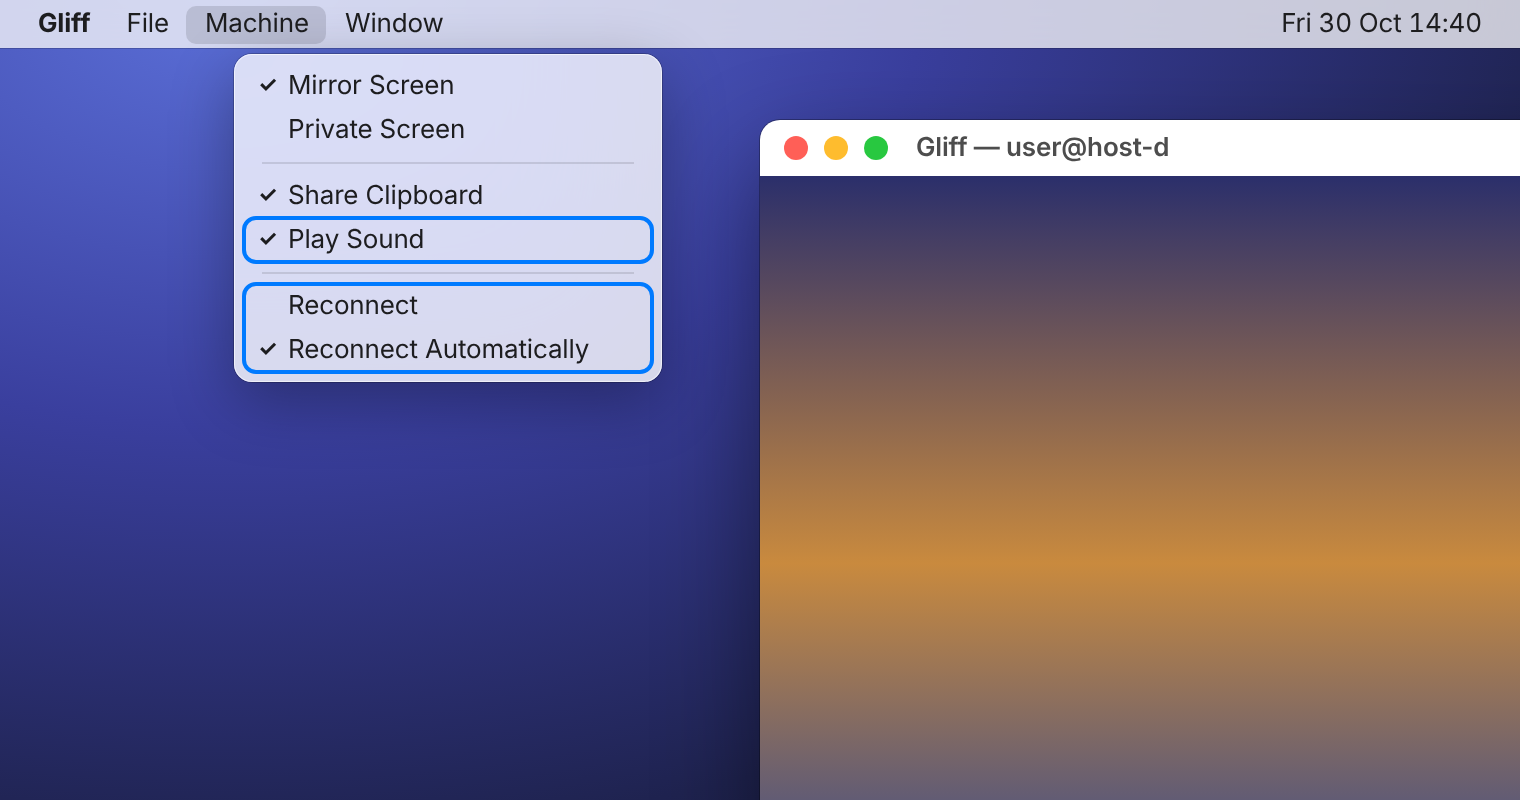
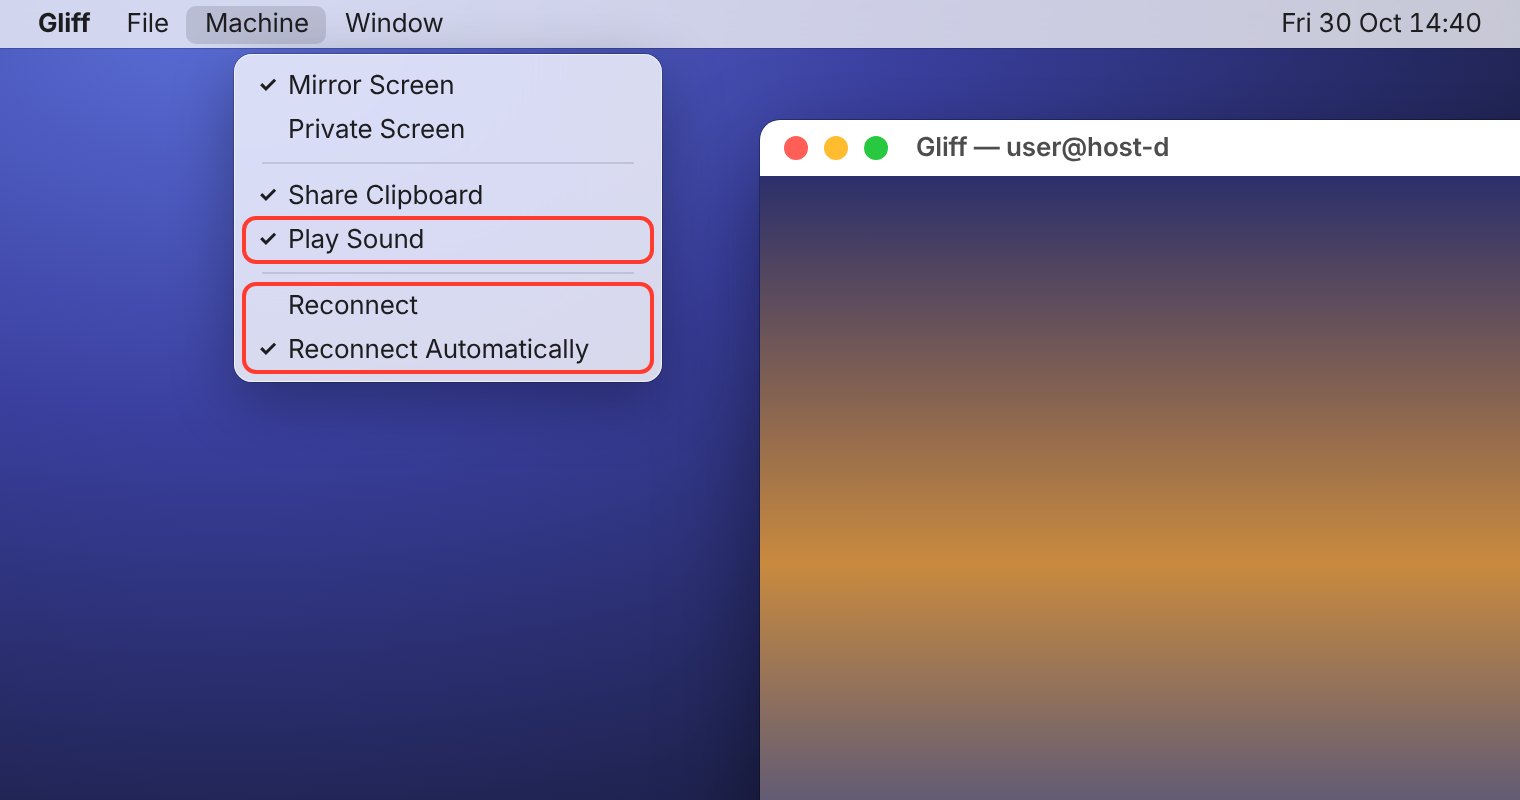
docs: red feature outlines; one outline per tab in the tabs shot
systemRed (#FF3B30) instead of systemBlue. The tabs screenshot gets two
boxes, one per connection, instead of one around the whole tab bar.

Claude-Session: https://claude.ai/code/session_01G4VLoM6hjvYsFPeoe3rMWg

Changed region(s): [[0.1546, 0.3125, 0.4329, 0.375], [0.1546, 0.4375, 0.4329, 0.4688], [0.1546, 0.25, 0.4329, 0.2812]]

diff --git a/docs/images/src/machine-menu.html b/docs/images/src/machine-menu.html
@@ -1,10 +1,10 @@
 <!doctype html>
-<!-- machine-menu.html v1.0.0 — a close macOS approximation of Gliff's
+<!-- machine-menu.html v1.1.0 — a close macOS approximation of Gliff's
      Machine menu (crates/gliff-macos/native/Gliff.swift, App menu setup),
      rendered to PNG by render.py at @2x. Items and order match the code. -->
 <html><head><meta charset="utf-8">
 <style>
-  :root { --blue: #007AFF; }
+  :root { --hl: #FF3B30; }  /* macOS systemRed */
   * { box-sizing: border-box; margin: 0; padding: 0; }
   body {
     width: 760px; height: 400px; overflow: hidden;
@@ -43,8 +43,8 @@
     padding-left: 22px; border-radius: 5px; color: #1d1d1f; }
   .item .check { position: absolute; left: 7px; font-size: 11px; font-weight: 700; top: 5px; }
   .sep { height: 1px; margin: 5px 9px; background: rgba(0,0,0,0.11); }
-  /* feature outline: 2 pt systemBlue, as in the redacted screenshots */
-  .hl { position: absolute; border: 2px solid var(--blue); border-radius: 7px; pointer-events: none; }
+  /* feature outline: 2 pt systemRed, as in the redacted screenshots */
+  .hl { position: absolute; border: 2px solid var(--hl); border-radius: 7px; pointer-events: none; }
 </style></head>
 <body>
   <div class="bar">

diff --git a/ToDone.md b/ToDone.md
@@ -183,6 +183,9 @@ Support today:
 
 Newest first. Format: `### YYYY-MM-DD — summary (commit)`, then a line or two.
 
+### 2026-10-30 — Screenshots: red outlines, one per tab
+Outlines are now macOS systemRed (#FF3B30); the tabs shot has one box per tab (per connection).
+
 ### 2026-10-30 — Fix: screenshots not shown
 `.gitignore` ignores `*.png`, so the three images were never committed; `docs/images/*.png` is now an exception. Screenshots captions shortened.
 

diff --git a/README.md b/README.md
@@ -45,9 +45,9 @@ This fork ([LaurentFough/gliff](https://github.com/LaurentFough/gliff)) builds o
 
 ### Screenshots
 
-The new features are outlined in blue.
+The new features are outlined in red.
 
-**Tabs:** two machines in one window; **+** or File ▸ New Tab adds another.
+**Tabs:** two connections in one window, one outline each; **+** or File ▸ New Tab adds another.
 
 ![Two Gliff tabs, one per machine, with the + button](docs/images/macos-tabs.png)
 

diff --git a/ForkNews.md b/ForkNews.md
@@ -46,9 +46,9 @@ A quick look at what this fork adds. The README carries the same list; [ToDone.m
 
 ## Screenshots
 
-The new features are outlined in blue.
+The new features are outlined in red.
 
-**Tabs:** two machines in one window; **+** or File ▸ New Tab adds another.
+**Tabs:** two connections in one window, one outline each; **+** or File ▸ New Tab adds another.
 
 ![Two Gliff tabs, one per machine, with the + button](docs/images/macos-tabs.png)
 
